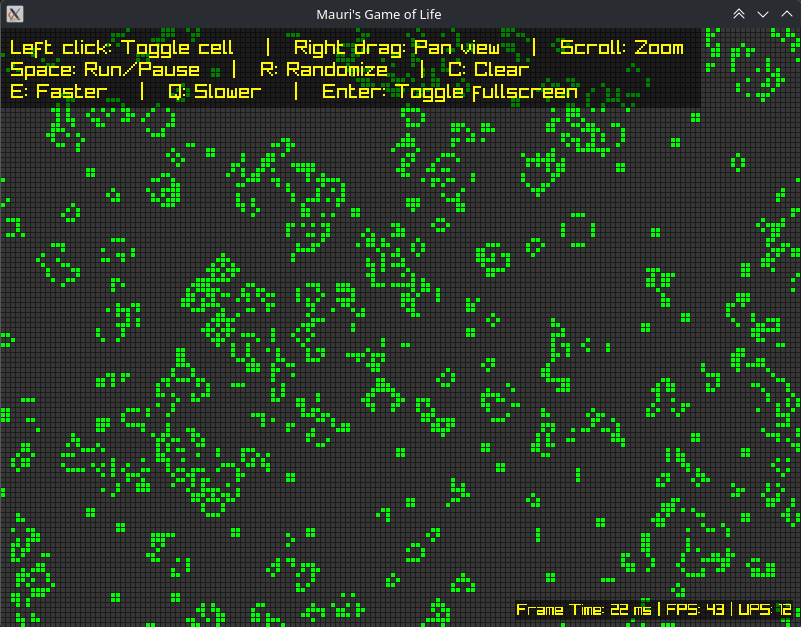
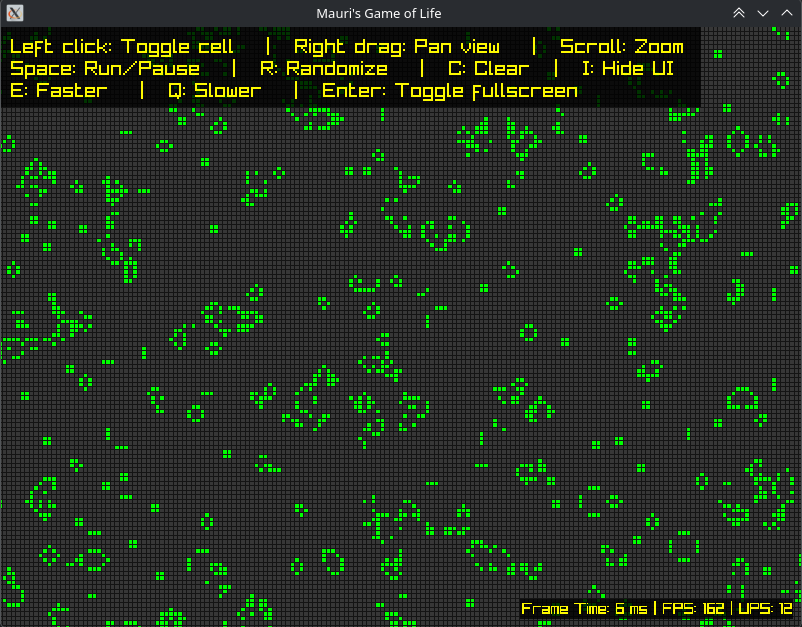
use Texture2D to speed up rendering

diff --git a/src/grid.cpp b/src/grid.cpp
@@ -1,12 +1,20 @@
 #include "grid.hpp"
 #include <raylib.h>
+#include <cstdio>
 
 void Grid::Draw()
 {
-    for (int r = 0; r < rows; r++) {
-        for (int c = 0; c < cols; c++) {
-            Color color = cells[r][c] ? Color{0, 255, 0, 255} : Color{55, 55, 55, 255};
-            DrawRectangle(c * cellSize, r * cellSize, cellSize-1, cellSize-1, color);
+    if (texture.id > 0) {
+        // Update and draw texture for large grids
+        UpdateTexture();
+        DrawTextureEx(texture, Vector2{0, 0}, 0.0f, 1.0f, WHITE);
+    } else {
+        // Fallback for small grids
+        for (int r = 0; r < rows; r++) {
+            for (int c = 0; c < cols; c++) {
+                Color color = cells[r][c] ? Color{0, 255, 0, 255} : Color{55, 55, 55, 255};
+                DrawRectangle(c * cellSize, r * cellSize, cellSize - 1, cellSize - 1, color);
+            }
         }
     }
 }
@@ -64,6 +72,8 @@ void Grid::ToggleCell(int row, int col)
     SetCell(row, col, !GetCell(row, col));
 }
 
+
+
 void Grid::UpdateSize(int width, int height, int cellsize)
 {
     cellSize = cellsize;
@@ -73,4 +83,109 @@ void Grid::UpdateSize(int width, int height, int cellsize)
     for (int r = 0; r < rows; r++) {
         cells[r].resize(cols);
     }
+
+    // Clean up old texture safely
+    Cleanup();
+
+    // Create texture for large grids
+    if (rows > 50 && cols > 50) {
+        int textureWidth = cols * cellSize;
+        int textureHeight = rows * cellSize;
+        textureData.resize(textureWidth * textureHeight * 4); // RGBA
+
+        // Initialize with grid pattern
+        for (int y = 0; y < textureHeight; y++) {
+            for (int x = 0; x < textureWidth; x++) {
+                int idx = (y * textureWidth + x) * 4;
+
+                // Check if we're on a grid line (right or bottom edge of cell)
+                bool isGridLine = (x % cellSize == cellSize - 1) || (y % cellSize == cellSize - 1);
+
+                if (isGridLine) {
+                    // Grid lines - dark
+                    textureData[idx + 0] = 20;   // R
+                    textureData[idx + 1] = 20;   // G
+                    textureData[idx + 2] = 20;   // B
+                    textureData[idx + 3] = 255;  // A
+                } else {
+                    // Dead cell - gray
+                    textureData[idx + 0] = 55;   // R
+                    textureData[idx + 1] = 55;   // G
+                    textureData[idx + 2] = 55;   // B
+                    textureData[idx + 3] = 255;  // A
+                }
+            }
+        }
+
+        // Create texture
+        Image img = {
+            .data = textureData.data(),
+            .width = textureWidth,
+            .height = textureHeight,
+            .mipmaps = 1,
+            .format = PIXELFORMAT_UNCOMPRESSED_R8G8B8A8
+        };
+
+        texture = LoadTextureFromImage(img);
+        SetTextureFilter(texture, TEXTURE_FILTER_POINT);
+    }
+}
+
+void Grid::UpdateTexture()
+{
+    if (texture.id == 0 || textureData.empty()) return;
+
+    int textureWidth = cols * cellSize;
+
+    // Update only the cell areas (not grid lines)
+    for (int r = 0; r < rows; r++) {
+        for (int c = 0; c < cols; c++) {
+            // Update the cell area (excluding grid lines)
+            for (int dy = 0; dy < cellSize - 1; dy++) {
+                for (int dx = 0; dx < cellSize - 1; dx++) {
+                    int x = c * cellSize + dx;
+                    int y = r * cellSize + dy;
+                    int idx = (y * textureWidth + x) * 4;
+
+                    if (cells[r][c]) {
+                        // Alive cell - green
+                        textureData[idx + 0] = 0;     // R
+                        textureData[idx + 1] = 255;   // G
+                        textureData[idx + 2] = 0;     // B
+                        textureData[idx + 3] = 255;   // A
+                    } else {
+                        // Dead cell - gray
+                        textureData[idx + 0] = 55;    // R
+                        textureData[idx + 1] = 55;    // G
+                        textureData[idx + 2] = 55;    // B
+                        textureData[idx + 3] = 255;   // A
+                    }
+                }
+            }
+        }
+    }
+
+    // Update the GPU texture
+    UpdateTextureRec(texture, Rectangle{0, 0, (float)textureWidth, (float)(rows * cellSize)}, textureData.data());
+}
+
+void Grid::SwapCells(Grid& other)
+{
+    // Only swap the cell data, not the texture or other resources
+    std::swap(cells, other.cells);
+}
+
+void Grid::Cleanup()
+{
+    // Safe texture cleanup
+    if (texture.id > 0) {
+        // Check if we're still in a valid OpenGL context
+        try {
+            UnloadTexture(texture);
+        } catch (...) {
+            // Ignore cleanup errors during shutdown
+        }
+        texture.id = 0;
+    }
+    textureData.clear();
 }

diff --git a/src/grid.hpp b/src/grid.hpp
@@ -1,11 +1,19 @@
 #pragma once
 #include <vector>
+#include <raylib.h>
 
 class Grid {
 public:
     Grid(int width, int height, int cellSize) {
+        texture = {0};
         UpdateSize(width, height, cellSize);
     }
+
+    ~Grid() {
+        Cleanup();
+    }
+
+    void Cleanup(); // Safe cleanup method
     void Draw();
     void SetCell(int row, int col, int value);
     int GetCell(int row, int col);
@@ -16,9 +24,15 @@ public:
     void Clear();
     void ToggleCell(int row, int col);
     void UpdateSize(int width, int height, int cellsize);
+    void UpdateTexture();
+    void SwapCells(Grid& other); // Swap only cell data, not textures
 private:
     int rows;
     int cols;
     int cellSize;
     std::vector<std::vector<int>> cells;
+
+    // Texture rendering for performance
+    Texture2D texture;
+    std::vector<unsigned char> textureData;
 };

diff --git a/src/sim.hpp b/src/sim.hpp
@@ -6,7 +6,7 @@ class Simulation {
     public:
         Simulation(int width, int height, int cellSize)
         : grid(width, height, cellSize), nextGrid(width, height, cellSize), run(false) {
-            // grid.FillRandom();
+            grid.FillRandom();
         };
         void Draw();
         void SetCellValue(int row, int col, int value);
@@ -22,6 +22,10 @@ class Simulation {
         void SetSize(int width, int height, int cellsiz) {
             grid.UpdateSize(width, height, cellsiz);
             nextGrid.UpdateSize(width, height, cellsiz);
+        }
+        void Cleanup() {
+            grid.Cleanup();
+            nextGrid.Cleanup();
         }
     private:
         Grid grid;

diff --git a/src/main.cpp b/src/main.cpp
@@ -23,8 +23,7 @@ int main(void) {
     bool HIDE_UI = false;
 
     InitWindow(INITIAL_WINDOW_WIDTH, INITIAL_WINDOW_HEIGHT, "Mauri's Game of Life");
-    SetWindowState(FLAG_WINDOW_RESIZABLE);
-    SetTargetFPS(60);
+    SetWindowState(FLAG_WINDOW_RESIZABLE | FLAG_VSYNC_HINT);
 
     Simulation simulation(SIM_WIDTH, SIM_HEIGHT, CELL_SIZE);
 
@@ -82,6 +81,9 @@ int main(void) {
         }
         EndDrawing();
     }
+
+    // Clean up simulation before closing window to avoid segfaults
+    simulation.Cleanup();
 
     CloseWindow();
     return 0;

diff --git a/src/sim.cpp b/src/sim.cpp
@@ -65,7 +65,8 @@ void Simulation::Update()
         }
     }
 
-    std::swap(grid, nextGrid);
+    // Swap only the cell data, preserving textures and other resources
+    grid.SwapCells(nextGrid);
 }
 
 void Simulation::CreateRandomState()
